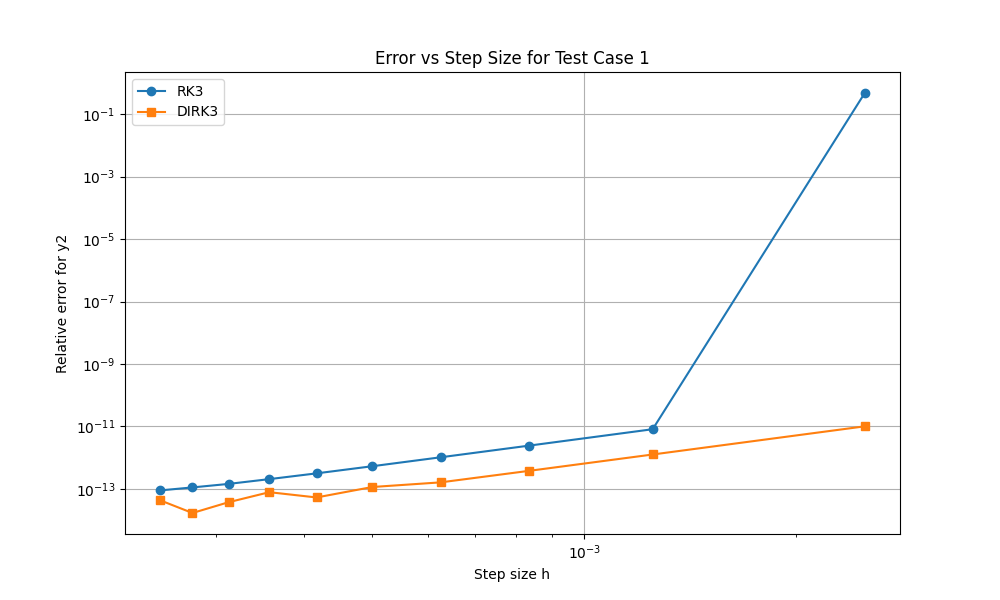
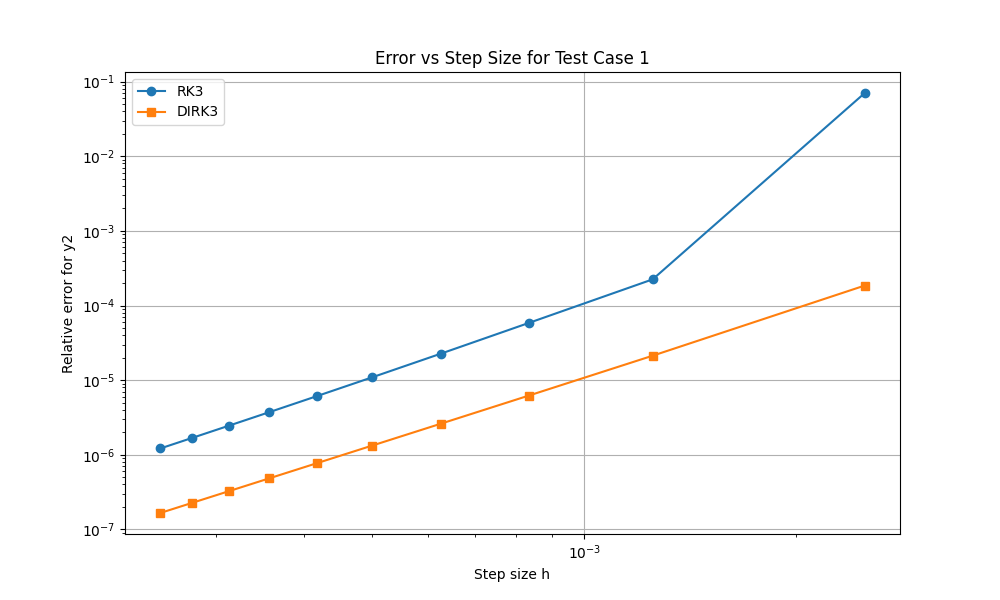
take3

diff --git a/test_cases.py b/test_cases.py
@@ -33,9 +33,16 @@ for i, N in enumerate(N_values):
     x_rk3, y_rk3 = rk3(A1, bvector1, yo1, interval1, N)
     x_dirk3, y_dirk3 = dirk3(A1, bvector1, yo1, interval1, N)
     
-    y_exact = exact_y1(x_rk3[-1])
-    error_rk3 = np.abs(y_rk3[-1, 1] - y_exact[0,1]) / np.abs(y_exact[0,1])
-    error_dirk3 = np.abs(y_dirk3[-1, 1] - y_exact[0,1]) / np.abs(y_exact[0,1])
+    # Get the exact solution at all x points
+    y_exact_all = exact_y1(x_rk3)
+    
+    # Calculate relative error for y2 at all points (excluding j=0)
+    relative_err_rk3 = np.abs((y_rk3[1:, 1] - y_exact_all[1:, 1]) / y_exact_all[1:, 1])
+    relative_err_dirk3 = np.abs((y_dirk3[1:, 1] - y_exact_all[1:, 1]) / y_exact_all[1:, 1])
+    
+    # Calculate the 1-norm (sum * h)
+    error_rk3 = h * np.sum(relative_err_rk3)
+    error_dirk3 = h * np.sum(relative_err_dirk3)
     
     errors_rk3.append(error_rk3)
     errors_dirk3.append(error_dirk3)
@@ -121,8 +128,15 @@ errors_dirk3_2 = []
 for N in N_values2:
     x_dirk3_2, y_dirk3_2 = dirk3(A2, bvector2, yo2, interval2, N)
     
-    y_exact_2 = exact_y2(x_dirk3_2[-1])
-    error_dirk3_2 = np.abs(y_dirk3_2[-1, 2] - y_exact_2[0,2]) / np.abs(y_exact_2[0,2])
+    # Get the exact solution at all x points
+    y_exact_all_2 = exact_y2(x_dirk3_2)
+    
+    # Calculate relative error for y3 at all points (excluding j=0)
+    relative_err_dirk3_2 = np.abs((y_dirk3_2[1:, 2] - y_exact_all_2[1:, 2]) / y_exact_all_2[1:, 2])
+    
+    # Calculate the 1-norm (sum * h)
+    h2 = 1.0 / N
+    error_dirk3_2 = h2 * np.sum(relative_err_dirk3_2)
     
     errors_dirk3_2.append(error_dirk3_2)
 
